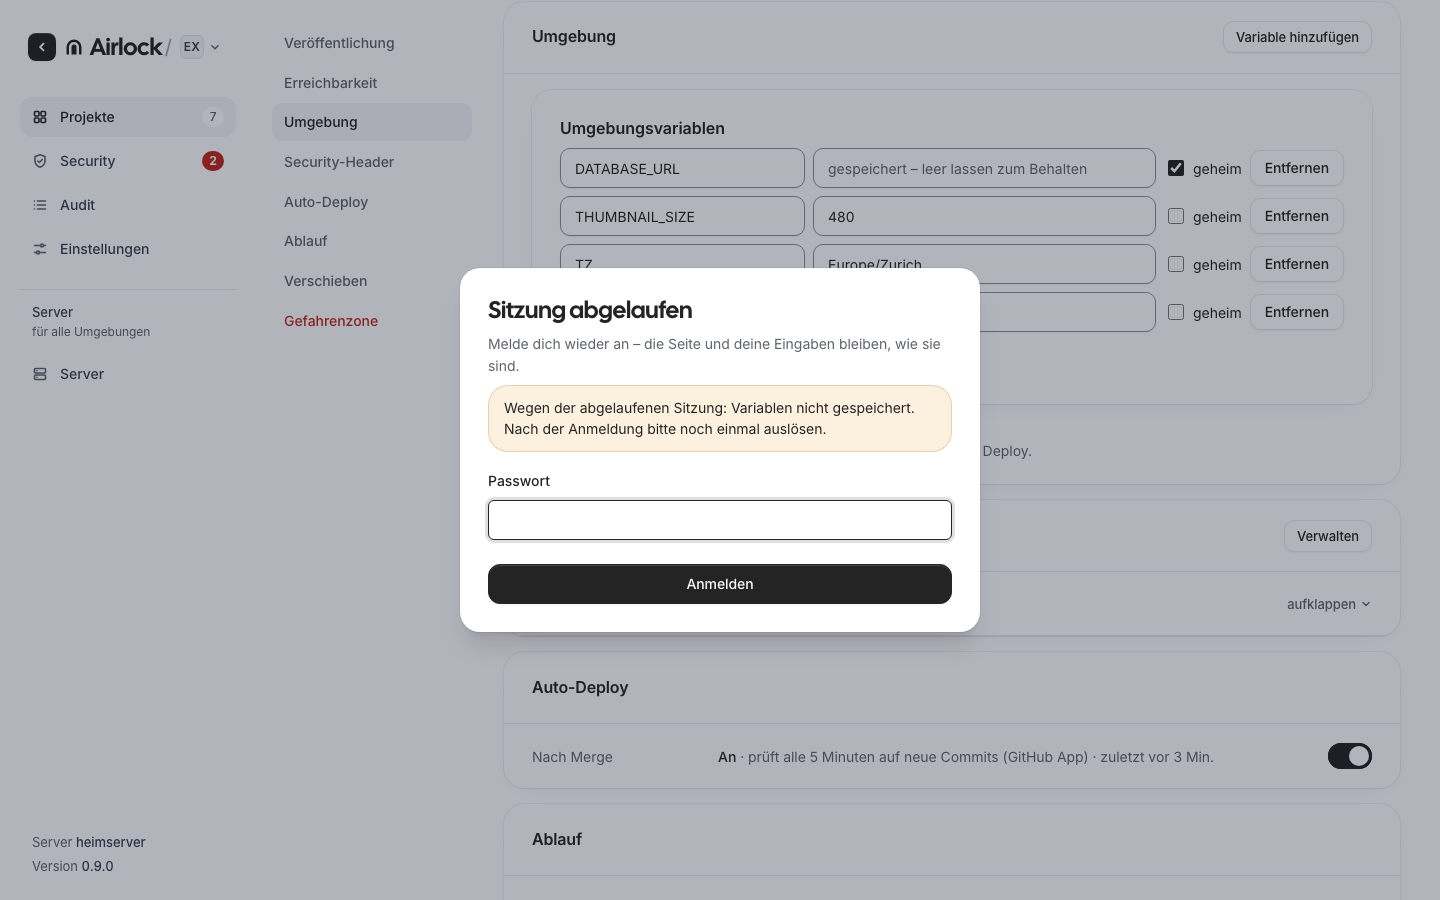
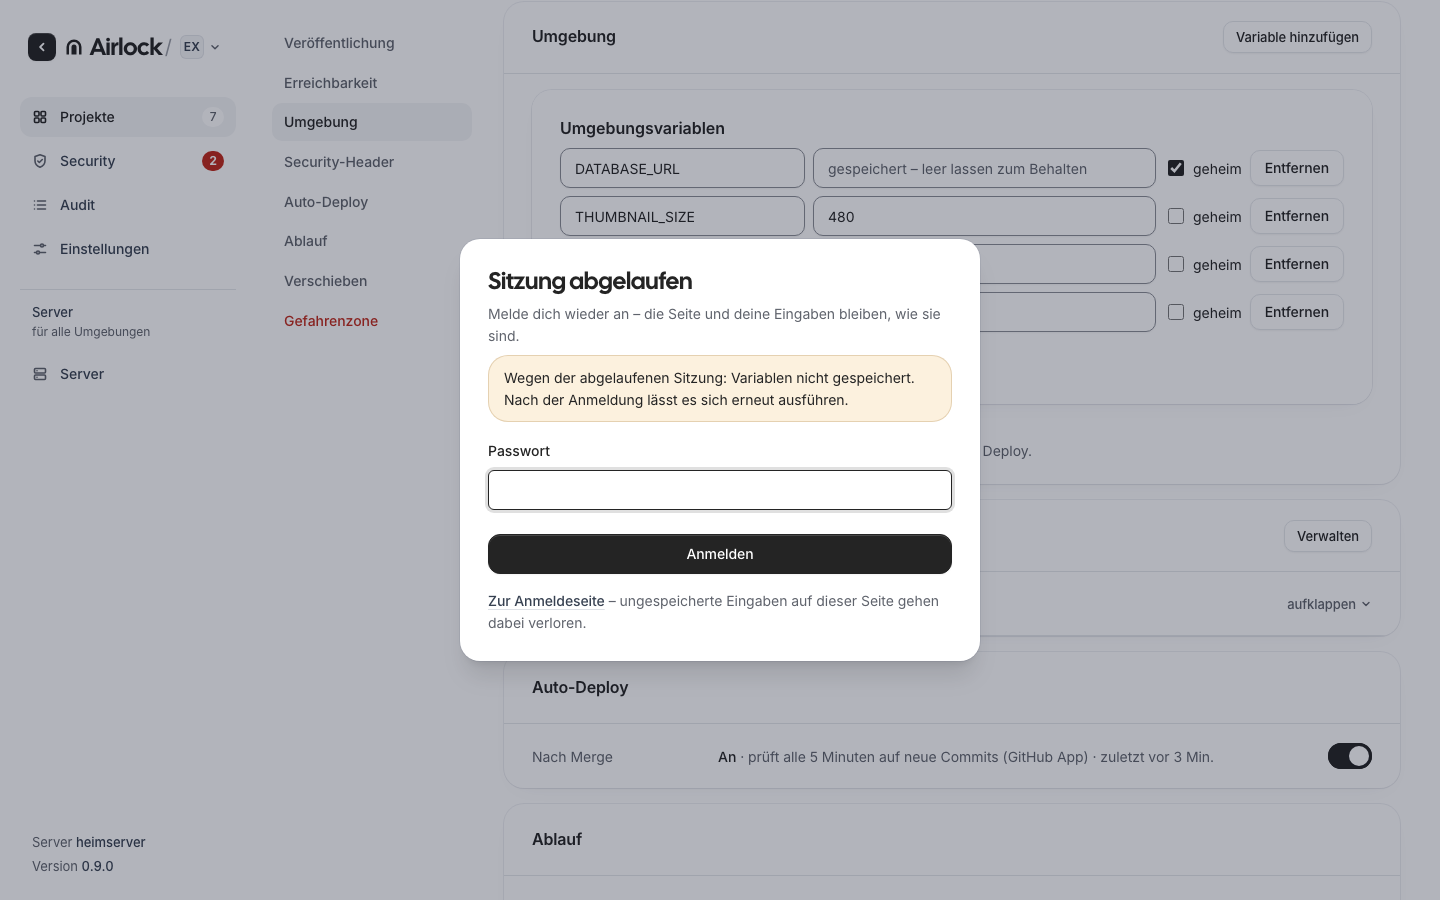
Antworten 2: Sitzung, Kürzel-Hinweis, Tokens-Befehl ohne History
- Antwort 5: ⌘K/Ctrl+K greift nicht mehr in Eingabefeldern (wie «/»); der
  Hilfe-Dialog (?) sagt, dass beide Kürzel die des Browsers auf dieser Seite
  ersetzen – nur mit Fokus in Airlock und ausserhalb von Feldern
- Antwort 14: Befehl für Claude Code mit --scope user; das Token steht nicht im
  Befehl, sondern wird verdeckt eingelesen (zsh: read -rs "AIRLOCK_TOKEN?Token: ",
  bash: read -rsp "Token: " AIRLOCK_TOKEN) und danach gelöscht (unset);
  Umschalter zsh/bash; Token weiter nur einmal sichtbar
- Antwort 15: im Dialog «Sitzung abgelaufen» der Weg «Zur Anmeldeseite» mit dem
  Hinweis, dass ungespeicherte Eingaben verloren gehen
- Antwort 16: an der Sitzung gescheiterte, nicht zerstörerische Aktionen bieten
  nach der Anmeldung «Erneut ausführen» an (Hinweis je Aktion); zerstörerische
  (meta.noRetry) nur mit «bitte noch einmal auslösen»; nichts automatisch
- Antwort 13: Passwort-Formular bleibt ohne Rückfrage (keine Änderung)

Neue Szenen: sitzung-erneut-ausfuehren, tokens-neu-claude-code

Geänderte Bilder (mit test:visual:update übernommen), hell und dunkel:
- kuerzel: Hinweis zu den Browser-Kürzeln
- sitzung-abgelaufen, sitzung-abgelaufen-aktion: «Zur Anmeldeseite»; Text im
  Banner «lässt es sich erneut ausführen»
- neu: sitzung-erneut-ausfuehren, tokens-neu-claude-code

Changed region(s): [[0.3125, 0.2489, 0.6875, 0.7467]]

diff --git a/packages/web/src/pages/Tokens.tsx b/packages/web/src/pages/Tokens.tsx
@@ -27,6 +27,8 @@ export function Tokens() {
   const [fresh, setFresh] = useState<{ name: string; token: string } | null>(null)
   const [copied, setCopied] = useState<string | null>(null)
   const [confirming, setConfirming] = useState<string | null>(null)
+  // Antwort 14: Befehl je Shell (macOS-Standard zsh)
+  const [shell, setShell] = useState<'zsh' | 'bash'>('zsh')
 
   const mcpUrl = `${window.location.origin}/mcp`
 
@@ -68,8 +70,15 @@ export function Tokens() {
   }
 
   // UI-Qualität 8: fertige Einrichtung je Client zum Kopieren (vorher fehlte das Leerzeichen vor der URL)
+  // Antwort 14: für alle Ordner (--scope user) und ohne Token im Befehl – es wird verdeckt eingelesen,
+  // damit es nicht in der Shell-History landet; danach wieder gelöscht
+  const read = shell === 'zsh' ? 'read -rs "AIRLOCK_TOKEN?Token: "' : 'read -rsp "Token: " AIRLOCK_TOKEN'
   const cli = fresh
-    ? `claude mcp add --transport http airlock ${mcpUrl} --header "Authorization: Bearer ${fresh.token}"`
+    ? [
+        read,
+        `claude mcp add --transport http --scope user airlock ${mcpUrl} --header "Authorization: Bearer $AIRLOCK_TOKEN"`,
+        'unset AIRLOCK_TOKEN',
+      ].join('\n')
     : ''
   // Claude Desktop spricht entfernte MCP-Server über mcp-remote an (Eintrag in claude_desktop_config.json).
   // Kopfzeile über eine Umgebungsvariable und ohne Leerzeichen im Argument: so empfiehlt es mcp-remote,
@@ -130,8 +139,14 @@ export function Tokens() {
           </div>
           {client === 'code' ? (
             <>
-              <p className="hint">Im Terminal ausführen:</p>
-              <pre className="code-block" tabIndex={0} role="group" aria-label="Befehl für Claude Code">{cli}</pre>
+              <div className="token-shell">
+                <p className="hint">Im Terminal ausführen. Der Befehl fragt nach dem Token (oben kopieren, die Eingabe bleibt unsichtbar) – so landet es nicht in der Shell-History. Gilt danach in allen Ordnern.</p>
+                <div className="segmented segmented-small" role="group" aria-label="Shell">
+                  <button type="button" aria-pressed={shell === 'zsh'} onClick={() => setShell('zsh')}>zsh</button>
+                  <button type="button" aria-pressed={shell === 'bash'} onClick={() => setShell('bash')}>bash</button>
+                </div>
+              </div>
+              <pre className="code-block" tabIndex={0} role="group" aria-label={`Befehl für Claude Code (${shell})`}>{cli}</pre>
               <div className="form-actions">
                 <button type="button" className="button-primary" onClick={() => copy('cli', cli)}>Befehl kopieren</button>
               </div>

diff --git a/packages/web/design-shots/shoot.ts b/packages/web/design-shots/shoot.ts
@@ -283,6 +283,26 @@ const shots: Shot[] = [
     },
   },
   {
+    // Antwort 16: nach der Anmeldung «Erneut ausführen» für die gescheiterte Aktion (nichts automatisch)
+    group: 'sitzung', name: 'sitzung-erneut-ausfuehren', path: `/projekte/${P}?tab=einstellungen`, full: false,
+    prepare: async (pg) => {
+      await pg.locator('#set-umgebung').getByRole('button', { name: 'Variable hinzufügen' }).click()
+      const row = pg.locator('#set-umgebung .env-row').last().locator('input')
+      await row.nth(0).fill('API_KEY')
+      await row.nth(1).fill('geheim')
+      const unauthorized = (r: import('@playwright/test').Route) => r.fulfill({ status: 401, contentType: 'application/json', body: '{"error":{"code":"unauthorized","message":"Nicht angemeldet"}}' })
+      await pg.route('**/api/v1/**', unauthorized)
+      await pg.getByRole('button', { name: 'Variablen speichern' }).click()
+      const dialog = pg.getByRole('dialog', { name: 'Sitzung abgelaufen' })
+      await dialog.getByText('Variablen nicht gespeichert', { exact: false }).waitFor()
+      await pg.unroute('**/api/v1/**', unauthorized)
+      await dialog.getByLabel('Passwort').fill('test-passwort')
+      await dialog.getByRole('button', { name: 'Anmelden' }).click()
+      await pg.locator('[data-sonner-toast]').filter({ hasText: 'Erneut ausführen' }).first().waitFor()
+      await pg.waitForTimeout(500)
+    },
+  },
+  {
     group: 'sitzung', name: 'verlassen-rueckfrage', path: `/projekte/${P}?tab=einstellungen`, full: false,
     prepare: async (pg) => {
       await pg.locator('#set-umgebung').getByRole('button', { name: 'Variable hinzufügen' }).click()
@@ -298,6 +318,17 @@ const shots: Shot[] = [
       await pg.getByLabel('Name des Tokens').fill('Claude Desktop')
       await pg.getByRole('button', { name: 'Token anlegen' }).click()
       await pg.getByRole('button', { name: 'Claude Desktop' }).click()
+      await pg.waitForTimeout(200)
+    },
+  },
+  {
+    // Antwort 14: Befehl für Claude Code mit --scope user, Token verdeckt eingelesen (bash gewählt)
+    group: 'sitzung', name: 'tokens-neu-claude-code', path: '/tokens', full: false,
+    prepare: async (pg) => {
+      await pg.getByLabel('Name des Tokens').fill('Claude Code Mac')
+      await pg.getByRole('button', { name: 'Token anlegen' }).click()
+      await pg.getByRole('button', { name: 'bash', exact: true }).click()
+      await pg.locator('.token-shell').scrollIntoViewIfNeeded()
       await pg.waitForTimeout(200)
     },
   },

diff --git a/packages/web/src/lib/session.ts b/packages/web/src/lib/session.ts
@@ -14,6 +14,11 @@ import { useSyncExternalStore } from 'react'
  */
 type State = { expired: boolean; failed: readonly string[]; loggedOut: boolean }
 let state: State = { expired: false, failed: [], loggedOut: false }
+/**
+ * Antwort 16: zu jeder gescheiterten Aktion, ob und wie sie sich nach der
+ * Anmeldung wiederholen lässt (nur nicht zerstörerische; nie automatisch).
+ */
+const retries = new Map<string, () => unknown>()
 const listeners = new Set<() => void>()
 const set = (next: Partial<State>) => { state = { ...state, ...next }; listeners.forEach((f) => f()) }
 
@@ -28,12 +33,24 @@ export function markSessionOk(): void {
 }
 
 /** Eine Aktion ist am 401 gescheitert (Titel wie «Nicht gespeichert», «Deploy nicht gestartet») */
-export function noteFailedAction(title: string): void {
-  if (state.loggedOut || state.failed.includes(title)) return
+export function noteFailedAction(title: string, retry?: () => unknown): void {
+  if (state.loggedOut) return
+  // Gleicher Titel: der letzte Versuch zählt (z. B. zweimal «Variablen nicht gespeichert»)
+  if (retry) retries.set(title, retry)
+  else retries.delete(title)
+  if (state.failed.includes(title)) return
   set({ failed: [...state.failed, title] })
 }
 
+/** Gescheiterte Aktionen mit ihrer Wiederholung (falls erlaubt) – zum Anbieten nach der Anmeldung */
+export function takeFailedActions(): { title: string; retry: (() => unknown) | null }[] {
+  const out = state.failed.map((title) => ({ title, retry: retries.get(title) ?? null }))
+  retries.clear()
+  return out
+}
+
 export function markLoggedOut(): void {
+  retries.clear()
   set({ expired: false, failed: [], loggedOut: true })
 }
 

diff --git a/packages/web/src/pages/Login.tsx b/packages/web/src/pages/Login.tsx
@@ -4,6 +4,7 @@ import { loginSchema } from '@airlock/shared'
 import { useFormErrors } from '../lib/form.js'
 import { Field } from '../components/Field.js'
 import { Logo } from '../components/Logo.js'
+import { markLoggedOut } from '../lib/session.js'
 
 /** Anmeldeseite (ohne Sitzung beim Öffnen) */
 export function Login({ onDone }: { onDone: () => void }) {
@@ -71,7 +72,7 @@ export function LoginForm({ onDone, inDialog = false, headingId, failed = [] }: 
       </p>
       {failed.length > 0 && (
         <div className="banner banner-warn session-failed" role="status">
-          <p>Wegen der abgelaufenen Sitzung: {failed.join(', ')}. Nach der Anmeldung bitte noch einmal auslösen.</p>
+          <p>Wegen der abgelaufenen Sitzung: {failed.join(', ')}. Nach der Anmeldung lässt es sich erneut ausführen.</p>
         </div>
       )}
       <Field id={form.idFor('password')} label="Passwort" error={form.errors.password}>
@@ -89,6 +90,13 @@ export function LoginForm({ onDone, inDialog = false, headingId, failed = [] }: 
       <button type="submit" className="button-primary" disabled={busy} aria-busy={busy || undefined}>
         Anmelden
       </button>
+      {/* Antwort 15: Ausweg aus dem Dialog – zur Anmeldeseite, mit ehrlichem Hinweis */}
+      {inDialog && (
+        <p className="hint session-escape">
+          <button type="button" className="link-button" onClick={() => markLoggedOut()}>Zur Anmeldeseite</button>
+          {' '}– ungespeicherte Eingaben auf dieser Seite gehen dabei verloren.
+        </p>
+      )}
     </form>
   )
 }

diff --git a/packages/web/src/components/Shortcuts.tsx b/packages/web/src/components/Shortcuts.tsx
@@ -46,9 +46,10 @@ export function Shortcuts() {
 
   useEffect(() => {
     const onKey = (e: KeyboardEvent) => {
-      // Palette: ⌘K (Mac) bzw. Ctrl+K, auch aus Feldern heraus
+      // Palette: ⌘K (Mac) bzw. Ctrl+K – nicht in Eingabefeldern (Antwort 5: dort bleibt das Kürzel des
+      // Browsers bzw. des Felds, z. B. Ctrl+K «bis Zeilenende löschen»)
       const mod = IS_MAC ? e.metaKey && !e.ctrlKey : e.ctrlKey && !e.metaKey
-      if (mod && !e.altKey && !e.shiftKey && e.key.toLowerCase() === 'k') {
+      if (mod && !e.altKey && !e.shiftKey && e.key.toLowerCase() === 'k' && !typing(e.target)) {
         e.preventDefault()
         // Gedrückt halten schaltet nicht ständig auf und zu
         if (!e.repeat) setPalette((o) => !o)
@@ -116,6 +117,11 @@ function ShortcutHelp({ open, onClose }: { open: boolean; onClose: () => void })
             </div>
           ))}
         </dl>
+        {/* Antwort 5: offen sagen, was überschrieben wird */}
+        <p className="hint shortcut-note">
+          <kbd>⌘</kbd><kbd>K</kbd> bzw. <kbd>Ctrl</kbd><kbd>K</kbd> und <kbd>/</kbd> ersetzen auf dieser Seite die gleichnamigen Kürzel des Browsers (Adressleisten- bzw. Schnellsuche) –
+          nur solange Airlock den Fokus hat und nicht in Eingabefeldern.
+        </p>
         <div className="dialog-actions"><button type="button" onClick={onClose} autoFocus>Schliessen</button></div>
       </div>
     </dialog>

diff --git a/packages/web/src/components/SessionDialog.tsx b/packages/web/src/components/SessionDialog.tsx
@@ -1,7 +1,8 @@
 import { useEffect, useRef } from 'react'
 import { useQueryClient } from '@tanstack/react-query'
 import { LoginForm } from '../pages/Login.js'
-import { isSessionExpired, markSessionOk, useFailedActions, useSessionExpired } from '../lib/session.js'
+import { isSessionExpired, markSessionOk, takeFailedActions, useFailedActions, useSessionExpired } from '../lib/session.js'
+import { notifyWarn } from '../lib/feedback.js'
 
 /**
  * UI-Qualität 8: Sitzung abgelaufen (401 oder Abmeldung in einem anderen Tab)
@@ -28,6 +29,14 @@ export function SessionDialog() {
   }, [expired])
 
   const done = () => {
+    // Antwort 16: Gescheitertes nach der Anmeldung anbieten – «Erneut ausführen» nur, wo erlaubt
+    // (nicht zerstörerisch); nichts geschieht von selbst
+    for (const f of takeFailedActions()) {
+      const retry = f.retry
+      notifyWarn(`Nicht ausgeführt: ${f.title}`, retry
+        ? { description: 'Wegen der abgelaufenen Sitzung.', action: { label: 'Erneut ausführen', onClick: () => void retry() } }
+        : { description: 'Wegen der abgelaufenen Sitzung – bitte noch einmal auslösen.' })
+    }
     markSessionOk()
     void qc.invalidateQueries()
     requestAnimationFrame(() => back.current?.focus?.())

diff --git a/packages/web/visual/scenes.ts b/packages/web/visual/scenes.ts
@@ -12,7 +12,7 @@ export const VISUAL_SCENES = [
   'projekt-security', 'projekt-security-laeuft', 'projekt-einstellungen', 'veroeffentlichung-live', 'veroeffentlichung-pausiert',
   'neues-projekt-validierung', 'neues-projekt-vorschau', 'neues-projekt-chat','projekte-anzahl-0', 'projekte-anzahl-1',
   // Verwaltung und Security
-  'security-global', 'externe-ziele', 'domains', 'tokens', 'audit', 'konto', 'glocke', 'sitzung-abgelaufen', 'sitzung-abgelaufen-aktion', 'verlassen-rueckfrage', 'tokens-neu',
+  'security-global', 'externe-ziele', 'domains', 'tokens', 'audit', 'konto', 'glocke', 'sitzung-abgelaufen', 'sitzung-abgelaufen-aktion', 'sitzung-erneut-ausfuehren', 'verlassen-rueckfrage', 'tokens-neu', 'tokens-neu-claude-code',
   // System
   'system-uebersicht', 'system-cloudflare', 'system-cloudflare-fertig', 'system-benachrichtigungen', 'system-github', 'pauseseite-vorlage',
   // Zustände (Etappe 1) und Rückmeldung (Etappe 2)

diff --git a/packages/web/src/styles.css b/packages/web/src/styles.css
@@ -730,6 +730,11 @@ label { display: block; font-size: var(--fs-14); font-weight: 500; color: var(--
 .segmented button:hover:not(:disabled) { background: transparent; color: var(--ink); }
 .segmented button[aria-pressed='true'] { background: var(--surface); color: var(--ink); box-shadow: var(--sh-card); }
 :is(:root[data-theme='dark'], .theme-dark) .segmented button[aria-pressed='true']:not(.theme-light *) { background: var(--surface-3); }
+.token-shell { display: flex; align-items: center; justify-content: space-between; gap: var(--sp-4); }
+.token-shell .hint { margin: 0; max-width: 62ch; }
+.session-escape { margin: var(--sp-4) 0 0; }
+.shortcut-note { margin: var(--sp-5) 0 0; }
+.shortcut-note kbd { margin-right: 2px; }
 .segmented .num { margin-left: 2px; font-size: var(--fs-12); color: var(--muted); }
 
 /*

diff --git a/packages/web/src/lib/feedback.ts b/packages/web/src/lib/feedback.ts
@@ -57,7 +57,8 @@ export function mutationCacheWithToasts(): MutationCache {
       // Sitzung abgelaufen: Der Anmeldedialog nennt, was nicht ausgeführt wurde (ein Toast läge
       // hinter dem Dialog und wäre weg, bevor jemand ihn liest)
       if (err instanceof ApiError && err.status === 401 && isSessionExpired()) {
-        noteFailedAction(meta.errorTitle ?? 'Aktion nicht ausgeführt')
+        // Antwort 16: nicht zerstörerische Aktionen lassen sich nach der Anmeldung wiederholen
+        noteFailedAction(meta.errorTitle ?? 'Aktion nicht ausgeführt', meta.noRetry ? undefined : () => mutation.execute(variables).catch(() => {}))
         return
       }
       if (meta.quiet) return
